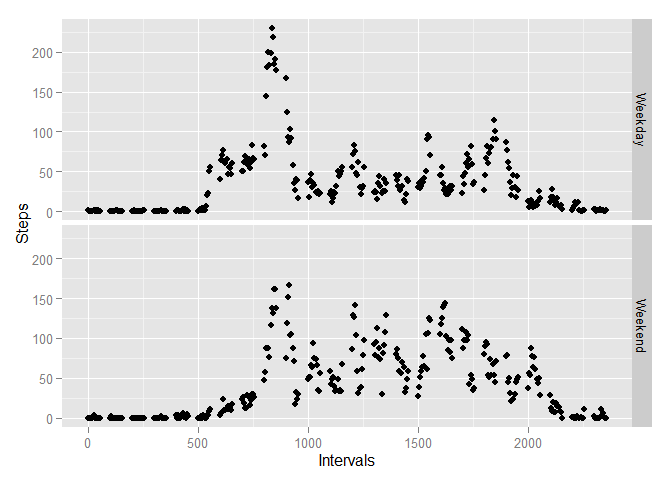
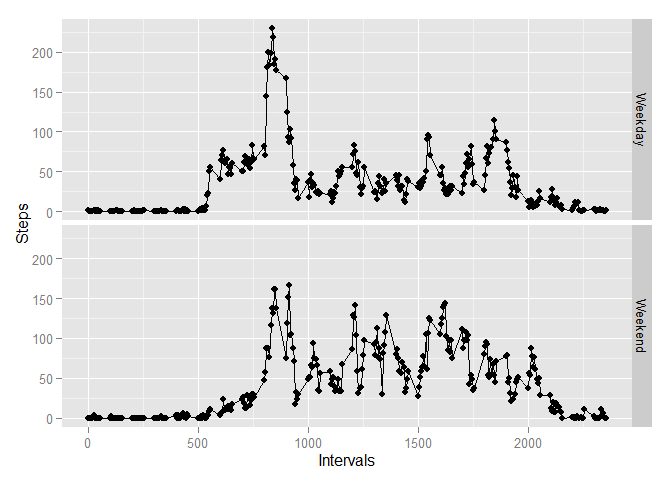
Some changes in text, and added lines to final figure

diff --git a/PA1_template.html b/PA1_template.html
@@ -104,7 +104,7 @@ median_steps &lt;- as.integer(median(tot_steps,na.rm=TRUE))</code></pre>
 <div id="what-is-the-average-daily-activity-pattern" class="section level2">
 <h2>What is the average daily activity pattern?</h2>
 <ol style="list-style-type: decimal">
-<li>Next we plot the average number of steps taken for each 5 minute interval over the observation period. This requires getting the means for each of the 288 intervals:</li>
+<li>For this part we are intereested in plotting the average number of steps taken for each 5 minute interval over the observation period. This requires getting the means for each of the 288 intervals:</li>
 </ol>
 <pre class="r"><code>Steps &lt;- tapply(clean_data$steps, clean_data$interval,mean)</code></pre>
 <p>Next we make a new table giving interval and mean number of steps:</p>
@@ -205,8 +205,8 @@ Steps &lt;- as.integer(comb_int[,2])
 wflag &lt;- c(rep(&quot;Weekday&quot;,288),rep(&quot;Weekend&quot;,288))
 wtab &lt;- data.frame(Intervals,Steps,wflag)</code></pre>
 <p>Now plot Mean steps per interval for weekdays and weekends</p>
-<pre class="r"><code>qplot(Intervals,Steps,data=wtab,facets = wflag ~ .) </code></pre>
[1 lines of base64/hex data omitted]
+<pre class="r"><code>qplot(Intervals,Steps,data=wtab,facets = wflag ~ .) +geom_line()</code></pre>
[1 lines of base64/hex data omitted]
 </div>
 
 

diff --git a/PA1_template.md b/PA1_template.md
@@ -59,7 +59,7 @@ median_steps <- as.integer(median(tot_steps,na.rm=TRUE))
 Hence the mean is 10766, while the median is 10765. I made the mean an integer because the formatting was weird otherwise.
 
 ## What is the average daily activity pattern?
-1) Next we plot the average number of steps taken for each 5 minute interval over the observation period. This requires 
+1) For this part  we are intereested in plotting the average number of steps taken for each 5 minute interval over the observation period. This requires 
 getting the means for each of the 288 intervals:
 
 ```r
@@ -234,7 +234,7 @@ wtab <- data.frame(Intervals,Steps,wflag)
 Now plot Mean steps per interval for weekdays and weekends
 
 ```r
-qplot(Intervals,Steps,data=wtab,facets = wflag ~ .) 
+qplot(Intervals,Steps,data=wtab,facets = wflag ~ .) +geom_line()
 ```
 
 ![](PA1_template_files/figure-html/unnamed-chunk-20-1.png) 
